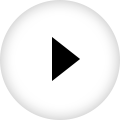
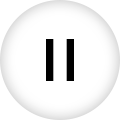
feat: music comonent

Changed region(s): [[0.375, 0.3, 0.675, 0.675]]

diff --git a/pages/classic/classic.js b/pages/classic/classic.js
@@ -4,6 +4,7 @@ import { BookModel } from '../../model/book';
 const bookModel = new BookModel();
 const likeModel = new LikeModel();
 const app = getApp();
+
 // pages/classic/classis.js
 Page({
 

diff --git a/components/essay/index.js b/components/essay/index.js
@@ -13,7 +13,7 @@ Component({
    * 组件的初始数据
    */
   data: {
-    playImgSrc:'play.png'
+    playImgSrc:'playing.png'
   },
 
   /**
